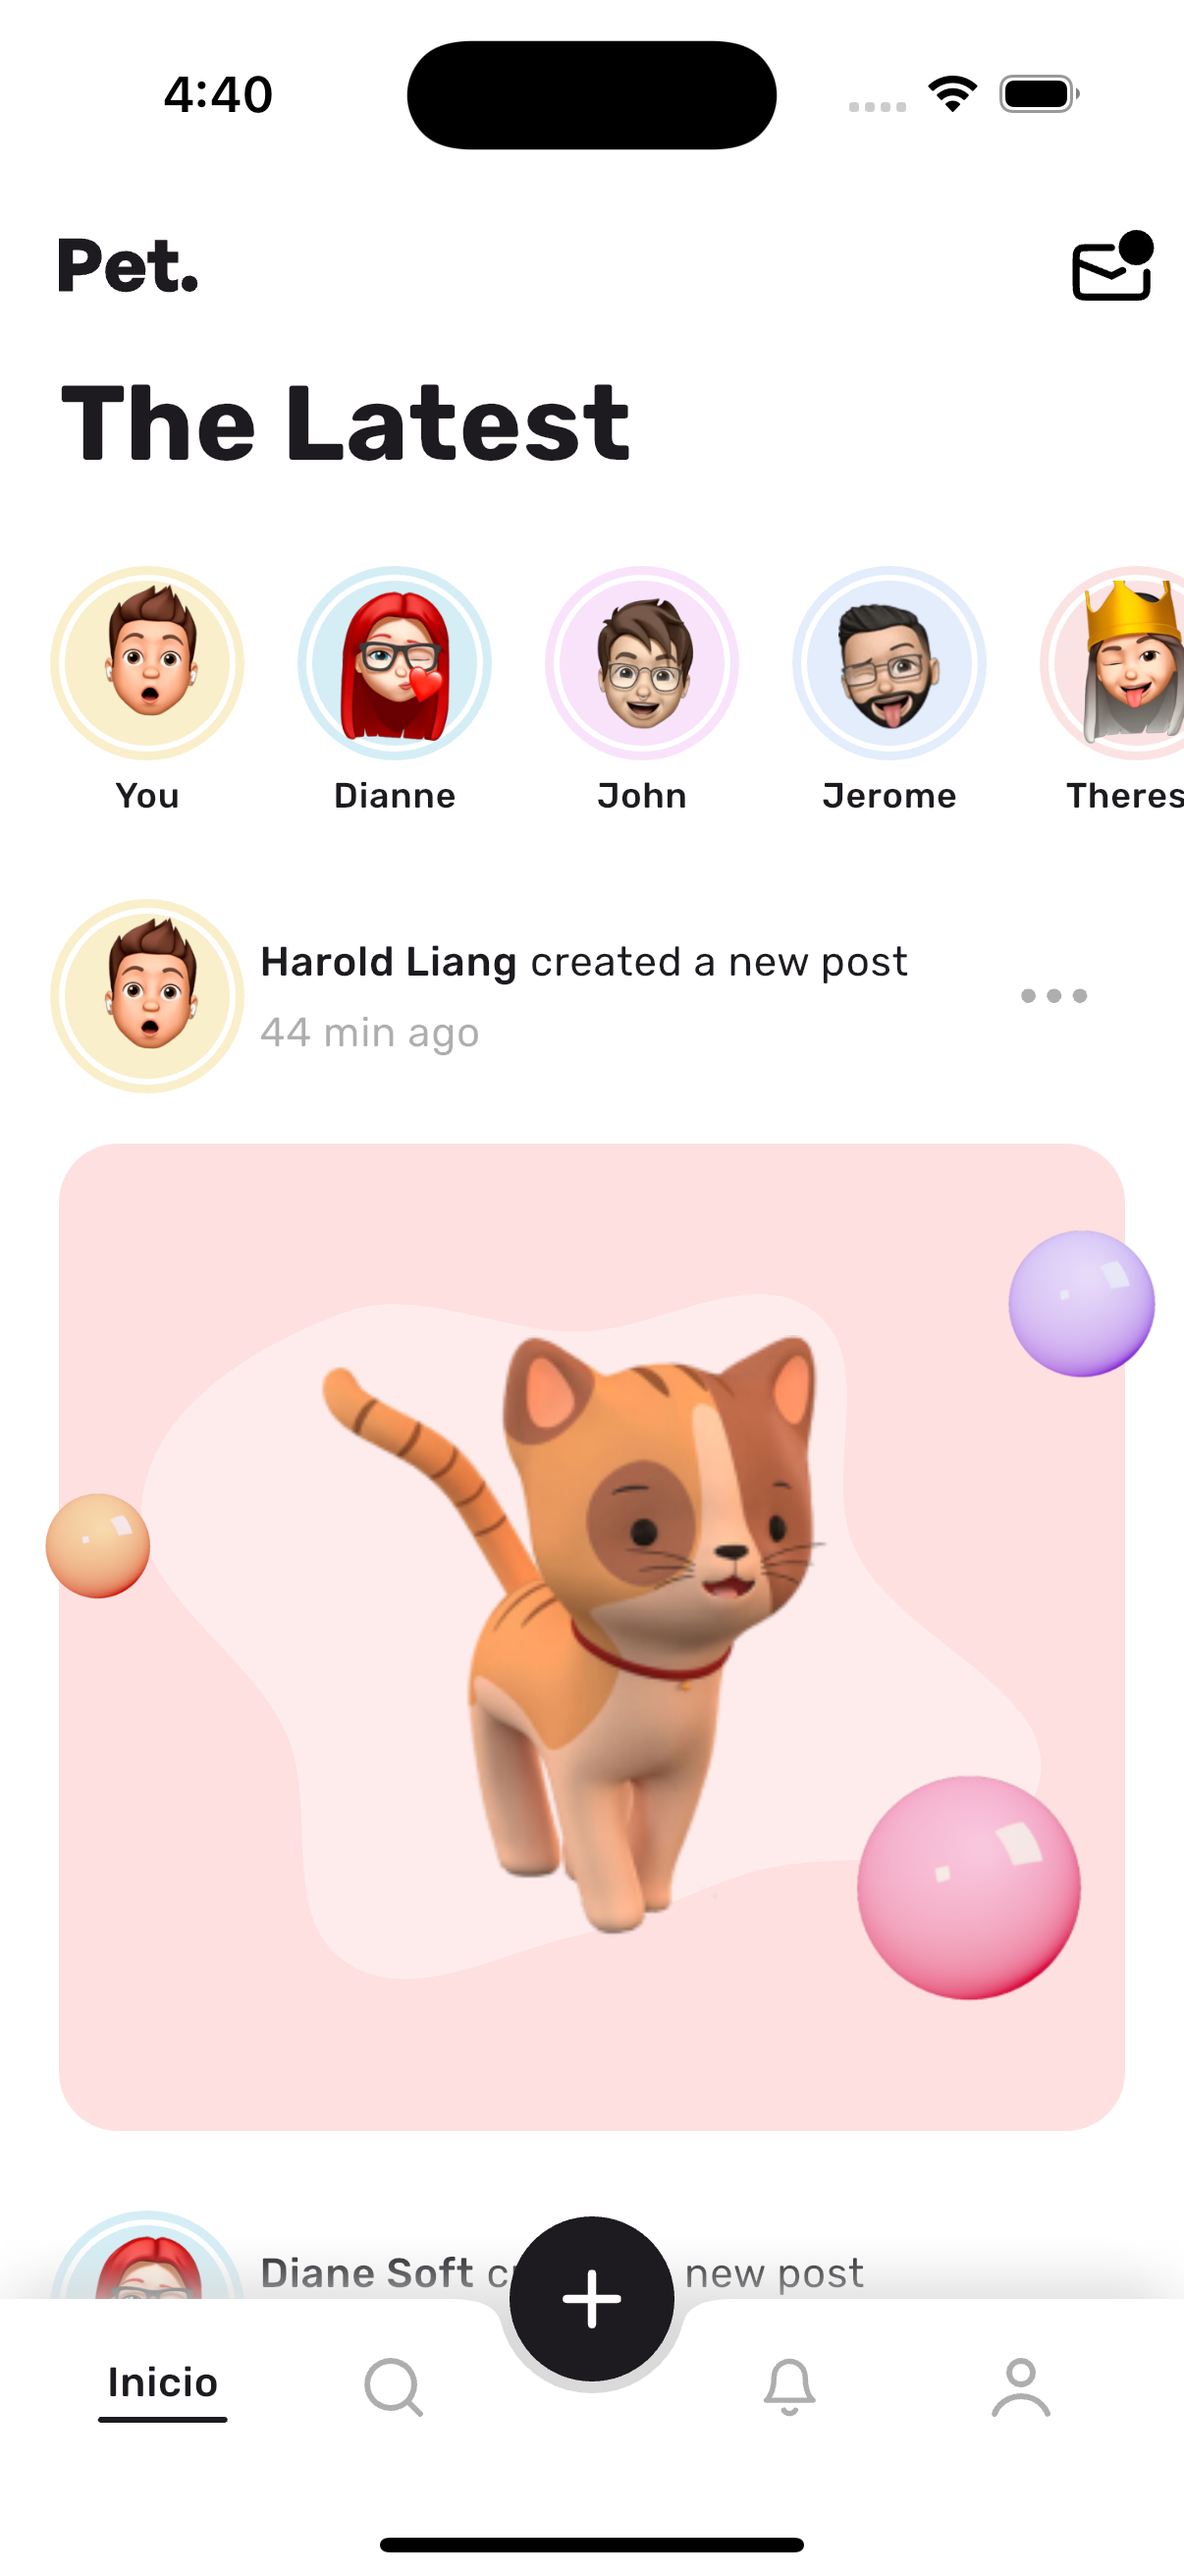
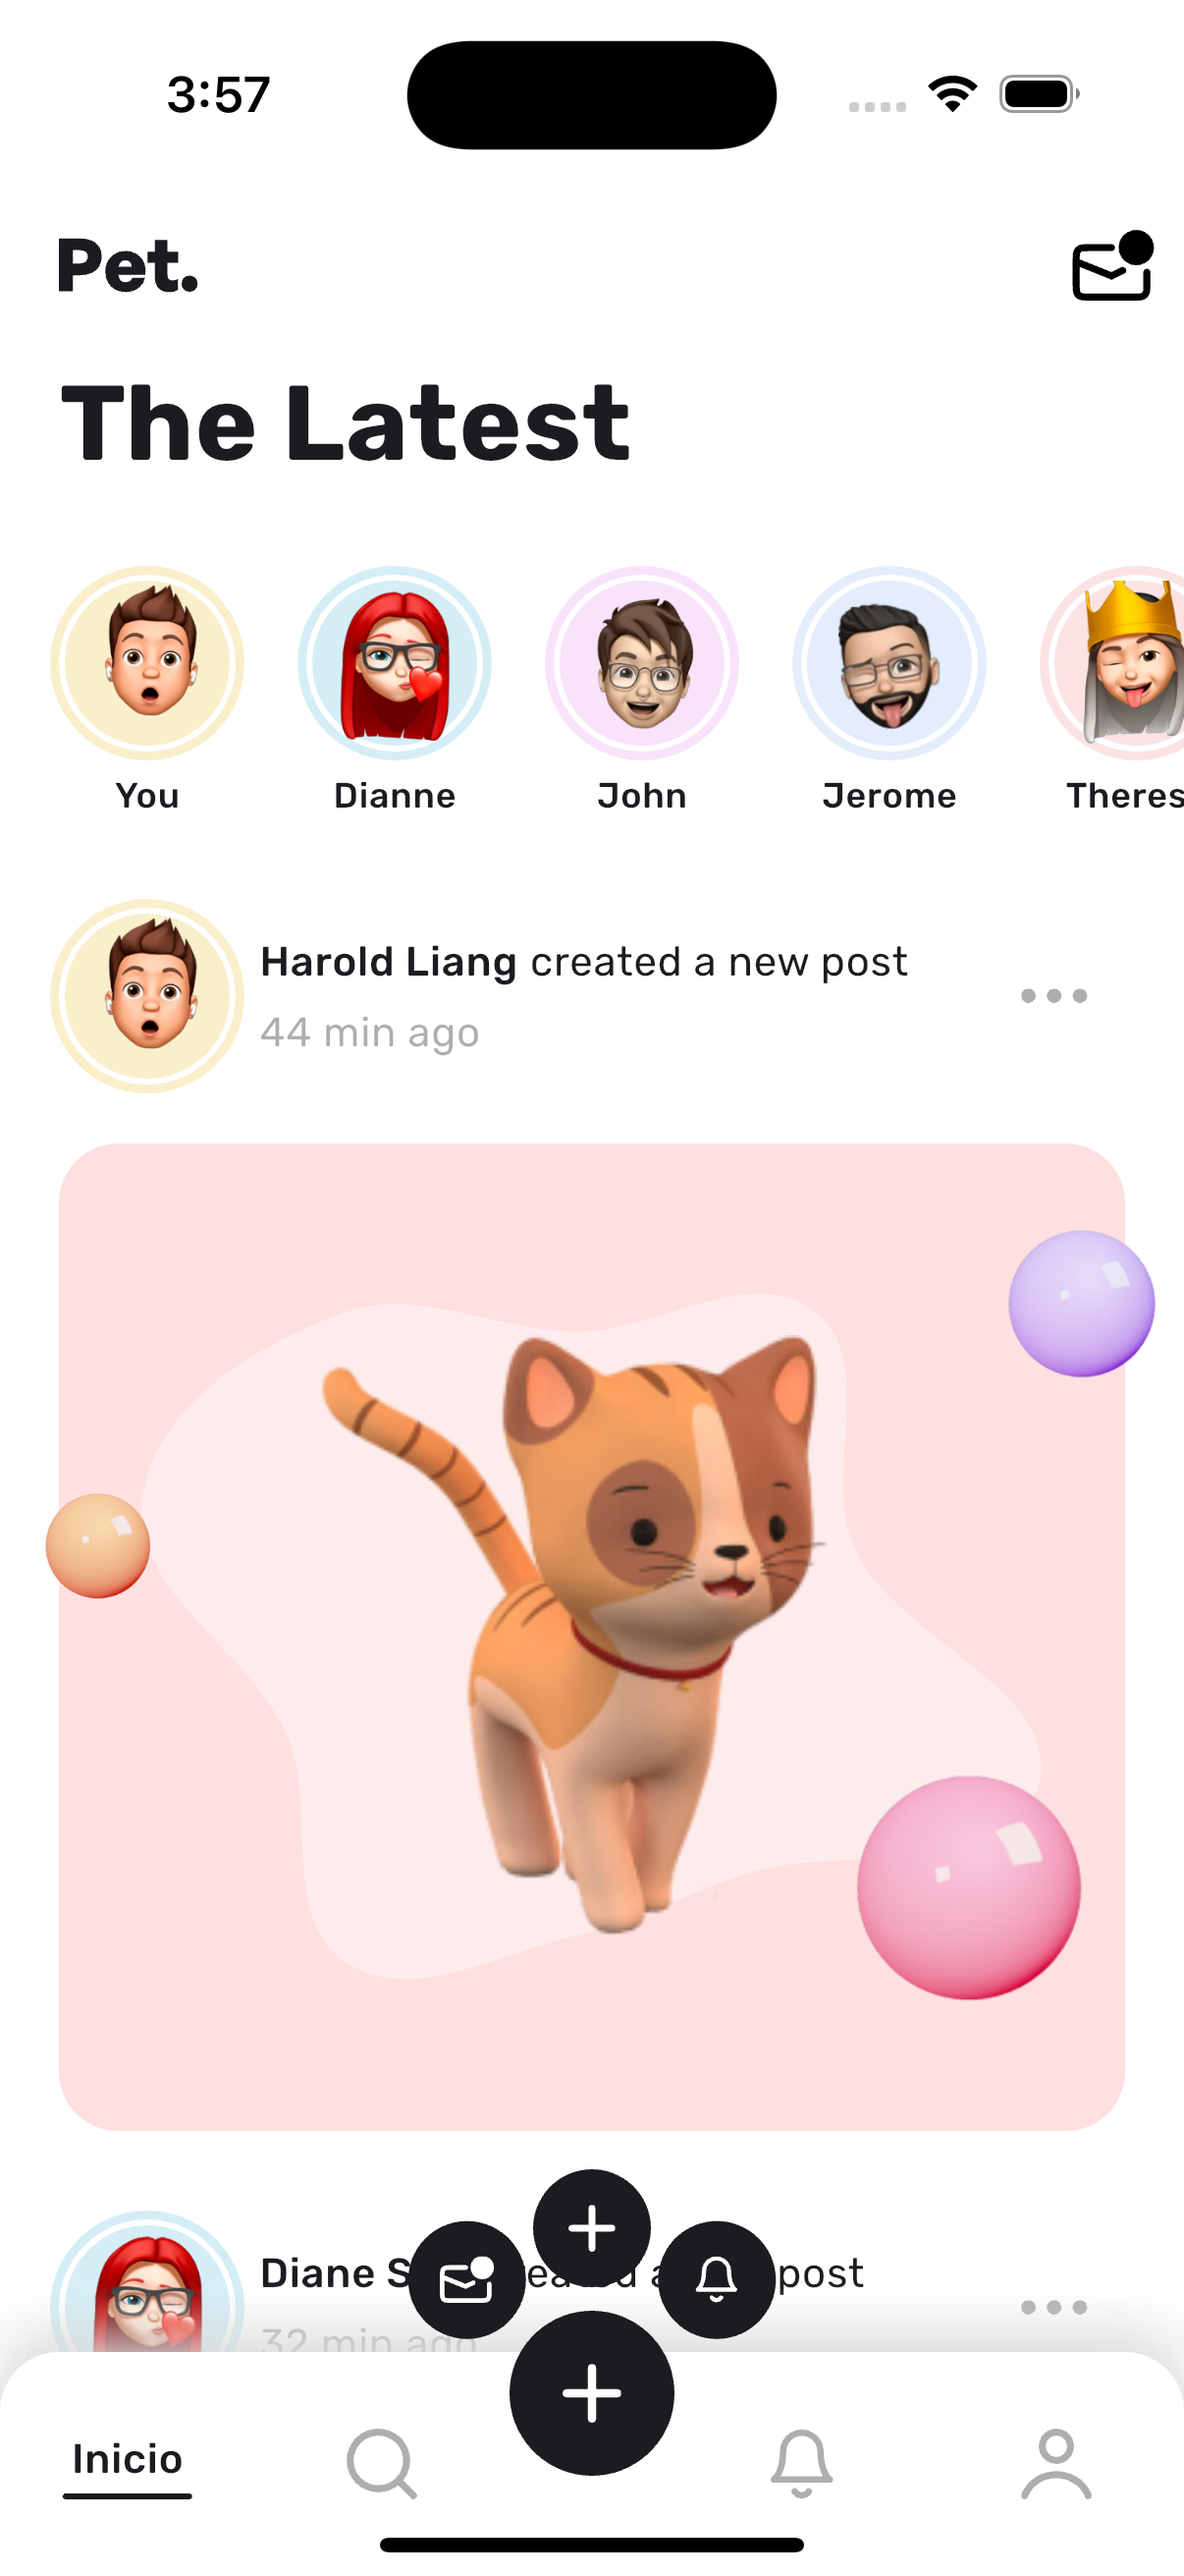
feat: add circular menu with customizable items and replace floating action button

Changed region(s): [[0.0307, 0.8341, 0.7056, 0.9886], [0.8284, 0.8959, 0.9204, 0.9886], [0.1227, 0.0309, 0.2454, 0.0618]]

diff --git a/lib/widgets/circular_menu.dart b/lib/widgets/circular_menu.dart
@@ -1,0 +1,201 @@
+import 'dart:math' as math;
+import 'package:flutter/material.dart';
+import 'package:flutter_svg/svg.dart';
+import 'package:pet_app/theme/theme.dart';
+import 'package:pet_app/widgets/circular_menu_item.dart';
+
+class CircularMenu extends StatefulWidget {
+  final String assetIcon;
+  final List<CircularMenuItem> items;
+  final AlignmentGeometry alignment;
+  final double radius;
+  final double? startingAngleInRadian;
+  final double? endingAngleInRadian;
+
+  const CircularMenu({
+    super.key,
+    required this.assetIcon,
+    required this.items,
+    this.alignment = Alignment.bottomCenter,
+    this.radius = 100,
+    this.startingAngleInRadian,
+    this.endingAngleInRadian,
+  });
+
+  @override
+  _CircularMenuState createState() => _CircularMenuState();
+}
+
+class _CircularMenuState extends State<CircularMenu>
+    with SingleTickerProviderStateMixin {
+  late AnimationController _animationController;
+  double? _completeAngle;
+  late double _initialAngle;
+  double? _endAngle;
+  double? _startAngle;
+  late int _itemsCount;
+  late Animation<double> _animation;
+
+  void forwardAnimation() {
+    _animationController.forward();
+  }
+
+  void reverseAnimation() {
+    _animationController.reverse();
+  }
+
+  @override
+  void initState() {
+    _configure();
+    _animationController = AnimationController(
+      vsync: this,
+      duration: const Duration(milliseconds: 500),
+    )..addListener(() {
+        setState(() {});
+      });
+    _animation = Tween(begin: 0.0, end: 1.0).animate(
+      CurvedAnimation(
+          parent: _animationController,
+          curve: Curves.bounceOut,
+          reverseCurve: Curves.fastOutSlowIn),
+    );
+    _itemsCount = widget.items.length;
+    super.initState();
+  }
+
+  @override
+  void dispose() {
+    _animationController.dispose();
+    super.dispose();
+  }
+
+  void _configure() {
+    if (widget.startingAngleInRadian != null ||
+        widget.endingAngleInRadian != null) {
+      if (widget.startingAngleInRadian == null) {
+        throw ('startingAngleInRadian can not be null');
+      }
+      if (widget.endingAngleInRadian == null) {
+        throw ('endingAngleInRadian can not be null');
+      }
+      if (widget.startingAngleInRadian! < 0) {
+        throw 'startingAngleInRadian has to be in clockwise radian';
+      }
+      if (widget.endingAngleInRadian! < 0) {
+        throw 'endingAngleInRadian has to be in clockwise radian';
+      }
+      _startAngle = (widget.startingAngleInRadian! / math.pi) % 2;
+      _endAngle = (widget.endingAngleInRadian! / math.pi) % 2;
+      if (_endAngle! < _startAngle!) {
+        throw 'startingAngleInRadian can not be greater than endingAngleInRadian';
+      }
+      _completeAngle = _startAngle == _endAngle
+          ? 2 * math.pi
+          : (_endAngle! - _startAngle!) * math.pi;
+      _initialAngle = _startAngle! * math.pi;
+    } else {
+      switch (widget.alignment) {
+        case Alignment.bottomCenter:
+          _completeAngle = 1 * math.pi;
+          _initialAngle = 1 * math.pi;
+          break;
+        case Alignment.topCenter:
+          _completeAngle = 1 * math.pi;
+          _initialAngle = 0 * math.pi;
+          break;
+        case Alignment.centerLeft:
+          _completeAngle = 1 * math.pi;
+          _initialAngle = 1.5 * math.pi;
+          break;
+        case Alignment.centerRight:
+          _completeAngle = 1 * math.pi;
+          _initialAngle = 0.5 * math.pi;
+          break;
+        case Alignment.center:
+          _completeAngle = 2 * math.pi;
+          _initialAngle = 0 * math.pi;
+          break;
+        case Alignment.bottomRight:
+          _completeAngle = 0.5 * math.pi;
+          _initialAngle = 1 * math.pi;
+          break;
+        case Alignment.bottomLeft:
+          _completeAngle = 0.5 * math.pi;
+          _initialAngle = 1.5 * math.pi;
+          break;
+        case Alignment.topLeft:
+          _completeAngle = 0.5 * math.pi;
+          _initialAngle = 0 * math.pi;
+          break;
+        case Alignment.topRight:
+          _completeAngle = 0.5 * math.pi;
+          _initialAngle = 0.5 * math.pi;
+          break;
+        default:
+          throw 'startingAngleInRadian and endingAngleInRadian can not be null';
+      }
+    }
+  }
+
+  void _toggle() {
+    _animationController.status == AnimationStatus.dismissed
+        ? (_animationController).forward()
+        : (_animationController).reverse();
+  }
+
+  @override
+  Widget build(BuildContext context) {
+    return Stack(
+      fit: StackFit.expand,
+      children: [
+        ..._buildOptions(),
+        Positioned.fill(
+          child: Align(
+            alignment: widget.alignment,
+            child: FloatingActionButton(
+              onPressed: _toggle,
+              backgroundColor: ThemeColors.eerieBlack,
+              shape: CircleBorder(),
+              elevation: 0,
+              highlightElevation: 0,
+              child: SvgPicture.asset(widget.assetIcon,
+                  width: 20,
+                  height: 20,
+                  colorFilter: ColorFilter.mode(Colors.white, BlendMode.srcIn)),
+            ),
+          ),
+        ),
+      ],
+    );
+  }
+
+  List<Widget> _buildOptions() {
+    List<Widget> items = [];
+    widget.items.asMap().forEach((index, item) {
+      items.add(
+        Positioned.fill(
+          child: Align(
+            alignment: widget.alignment,
+            child: Transform.translate(
+              offset: Offset.fromDirection(
+                  _completeAngle == (2 * math.pi)
+                      ? (_initialAngle +
+                          (_completeAngle! / (_itemsCount)) * index)
+                      : (_initialAngle +
+                          (_completeAngle! / (_itemsCount - 1)) * index),
+                  _animation.value * widget.radius),
+              child: Transform.scale(
+                scale: _animation.value,
+                child: Transform.rotate(
+                  angle: _animation.value * (math.pi * 2),
+                  child: item,
+                ),
+              ),
+            ),
+          ),
+        ),
+      );
+    });
+    return items;
+  }
+}

diff --git a/lib/widgets/custom_bottom_app_bar.dart b/lib/widgets/custom_bottom_app_bar.dart
@@ -8,41 +8,37 @@ class CustomBottomAppBar extends StatelessWidget {
   @override
   Widget build(BuildContext context) {
     return Container(
+      height: kBottomNavigationBarHeight + 20,
       decoration: BoxDecoration(
+          color: Colors.white,
           boxShadow: [
             BoxShadow(
                 color: ThemeColors.gainsboro,
                 offset: Offset(0, -5),
+                spreadRadius: 2,
                 blurRadius: 20)
           ],
           borderRadius: BorderRadius.only(
               topLeft: Radius.circular(20), topRight: Radius.circular(20))),
-      child: BottomAppBar(
-        color: Colors.white,
-        shape: CircularNotchedRectangle(),
-        height: 60,
-        child: Row(
-          mainAxisAlignment: MainAxisAlignment.spaceBetween,
-          children: [
-            BottomBarItem(
-                icon: 'assets/icons/home.svg', title: 'Inicio', isActive: true),
-            BottomBarItem(
-                icon: 'assets/icons/search.svg',
-                title: 'Explore',
-                isActive: false),
-            SizedBox(
-              width: 56,
-            ),
-            BottomBarItem(
-                icon: 'assets/icons/bell.svg',
-                title: 'Notificacion',
-                isActive: false),
-            BottomBarItem(
-                icon: 'assets/icons/user.svg',
-                title: 'Usuario',
-                isActive: false),
-          ],
-        ),
+      child: Row(
+        mainAxisAlignment: MainAxisAlignment.spaceBetween,
+        children: [
+          BottomBarItem(
+              icon: 'assets/icons/home.svg', title: 'Inicio', isActive: true),
+          BottomBarItem(
+              icon: 'assets/icons/search.svg',
+              title: 'Explore',
+              isActive: false),
+          SizedBox(
+            width: 56,
+          ),
+          BottomBarItem(
+              icon: 'assets/icons/bell.svg',
+              title: 'Notificacion',
+              isActive: false),
+          BottomBarItem(
+              icon: 'assets/icons/user.svg', title: 'Usuario', isActive: false),
+        ],
       ),
     );
   }

diff --git a/lib/main.dart b/lib/main.dart
@@ -1,8 +1,9 @@
+import 'dart:math';
 import 'package:flutter/material.dart';
-import 'package:flutter_svg/svg.dart';
 import 'package:pet_app/data/posts_data.dart';
 import 'package:pet_app/entities/post_entity.dart';
-import 'package:pet_app/theme/theme.dart';
+import 'package:pet_app/widgets/circular_menu.dart';
+import 'package:pet_app/widgets/circular_menu_item.dart';
 import 'package:pet_app/widgets/custom_app_bar.dart';
 import 'package:pet_app/widgets/custom_bottom_app_bar.dart';
 import 'package:pet_app/widgets/post.dart';
@@ -38,21 +39,30 @@ class MyApp extends StatelessWidget {
               Stories(),
               ...posts.map((PostEntity post) {
                 return Post(post: post);
-              })
+              }),
             ],
           ),
         ),
         bottomNavigationBar: CustomBottomAppBar(),
-        floatingActionButton: FloatingActionButton(
-          onPressed: () {},
-          backgroundColor: ThemeColors.eerieBlack,
-          shape: CircleBorder(),
-          elevation: 0,
-          highlightElevation: 0,
-          child: SvgPicture.asset('assets/icons/plus.svg',
-              width: 20,
-              height: 20,
-              colorFilter: ColorFilter.mode(Colors.white, BlendMode.srcIn)),
+        floatingActionButton: CircularMenu(
+          assetIcon: 'assets/icons/plus.svg',
+          radius: 60,
+          startingAngleInRadian: 1.25 * pi,
+          endingAngleInRadian: 1.75 * pi,
+          items: [
+            CircularMenuItem(
+              onPressed: () {},
+              assetIcon: 'assets/icons/email.svg',
+            ),
+            CircularMenuItem(
+              onPressed: () {},
+              assetIcon: 'assets/icons/plus.svg',
+            ),
+            CircularMenuItem(
+              onPressed: () {},
+              assetIcon: 'assets/icons/bell.svg',
+            )
+          ],
         ),
         floatingActionButtonLocation: FloatingActionButtonLocation.centerDocked,
       ),

diff --git a/lib/widgets/circular_menu_item.dart b/lib/widgets/circular_menu_item.dart
@@ -1,0 +1,26 @@
+import 'package:flutter/material.dart';
+import 'package:flutter_svg/svg.dart';
+import 'package:pet_app/theme/theme.dart';
+
+class CircularMenuItem extends StatelessWidget {
+  final VoidCallback onPressed;
+  final String assetIcon;
+
+  const CircularMenuItem(
+      {super.key, required this.onPressed, required this.assetIcon});
+
+  @override
+  Widget build(BuildContext context) {
+    return FloatingActionButton.small(
+      onPressed: onPressed,
+      backgroundColor: ThemeColors.eerieBlack,
+      shape: CircleBorder(),
+      elevation: 0,
+      highlightElevation: 0,
+      child: SvgPicture.asset(assetIcon,
+          width: 16,
+          height: 16,
+          colorFilter: ColorFilter.mode(Colors.white, BlendMode.srcIn)),
+    );
+  }
+}
